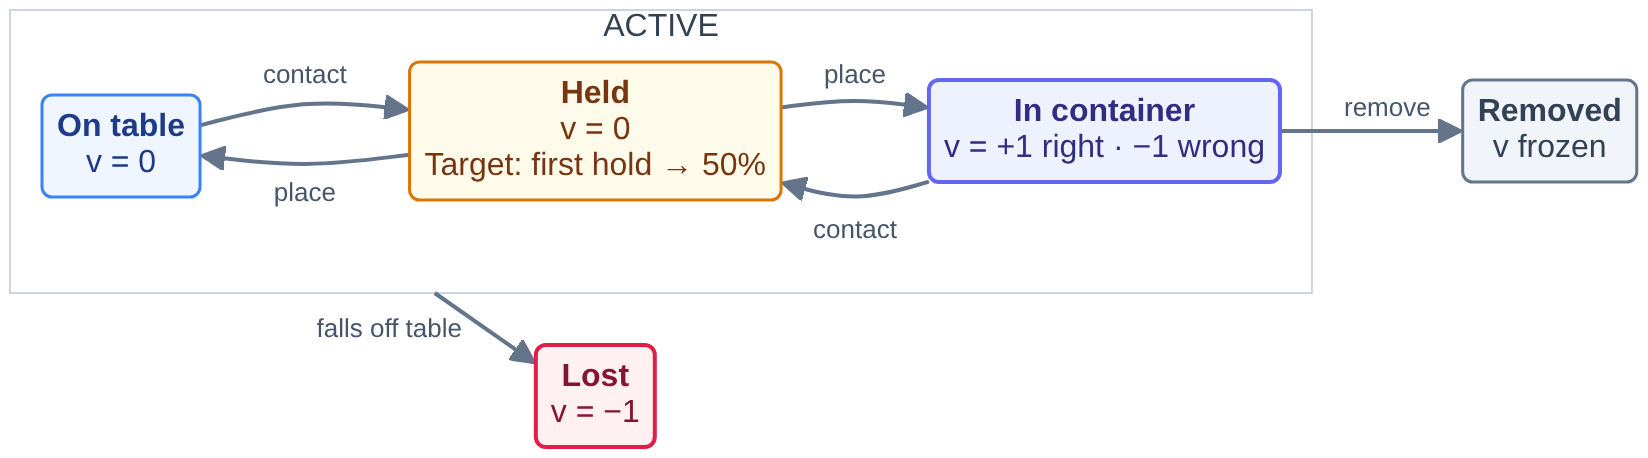
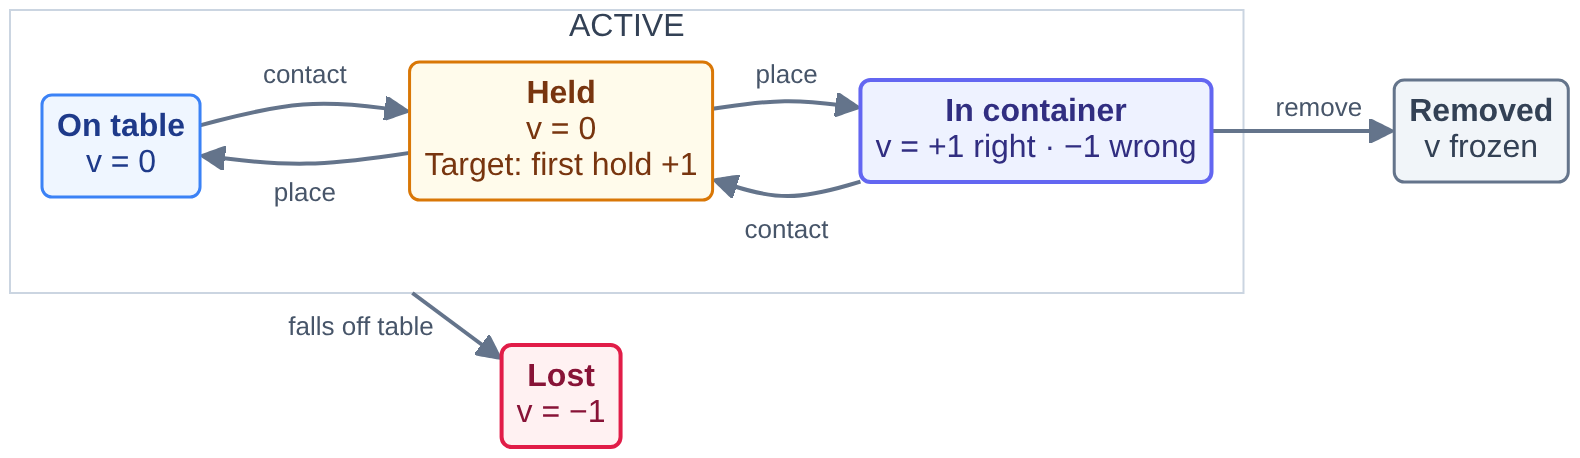
score: express request milestones as one point each

diff --git a/tasks/arm/object_finding_and_organizing_on_messy_desk/setup/payload/messy_desk_score.py b/tasks/arm/object_finding_and_organizing_on_messy_desk/setup/payload/messy_desk_score.py
@@ -10,9 +10,9 @@ available, sum_t sum_o max(0, 1 - b_o), then clipped to [0, 1]. An untouched sce
 exactly 0. Removed objects keep their last value (container service, delivery) or -1 (lost
 off the table) for the rest of the episode, also when their instance is reused.
 
-R, request progress: mean credit over all opened requests, including an ongoing one.
-The first hold of the requested target earns 0.5 once; a verified delivery or correct
-absence declaration brings that request to 1.0. Repeated holds earn nothing more.
+R, request progress: points divided by twice the number of opened requests, including an ongoing one.
+The first hold of the requested target earns 1 point once; a verified delivery or correct
+absence declaration brings that request to 2 points. Repeated holds earn nothing more.
 A wrong mark or expiry keeps any first-hold credit but adds none. No requests gives 0.
 
 Stdlib-only; shared byte-identically by the verify stage and the practice grader.
@@ -31,7 +31,7 @@ class EpisodeScorer(object):
         self.den = 0.0            # sum of the gain available, max(0, 1 - b)
         self.ghosts = []          # (value, baseline) of removed incarnations whose instance was reused
         self.prev = {}            # id -> (present, removed, value, baseline) at the previous step
-        self.request_credits = {}  # request id -> 0, 0.5 (first hold), or 1 (success)
+        self.request_points = {}  # request id -> 0, 1 (first hold), or 2 (success)
         self.held_requests = set()
         self.counts = {"requests_opened": 0, "requests_success": 0, "requests_failed": 0,
                        "requests_delivered": 0, "absent_correct": 0, "claims_wrong": 0, "absent_wrong": 0,
@@ -55,14 +55,14 @@ class EpisodeScorer(object):
             kind = e.get("event", "")
             if kind == "request_opened" or kind == "request_first_hold" or kind in SUCCESS_EVENTS or kind in FAILURE_EVENTS:
                 rid = e["request"]
-                self.request_credits.setdefault(rid, 0.0)
+                self.request_points.setdefault(rid, 0.0)
                 if kind == "request_first_hold":
-                    self.request_credits[rid] = max(self.request_credits[rid], 0.5)
+                    self.request_points[rid] = max(self.request_points[rid], 1.0)
                     if rid not in self.held_requests:
                         self.held_requests.add(rid)
                         self.counts["first_holds"] += 1
                 elif kind in SUCCESS_EVENTS:
-                    self.request_credits[rid] = 1.0
+                    self.request_points[rid] = 2.0
             if kind in SUCCESS_EVENTS:
                 self.counts["requests_success"] += 1
             elif kind in FAILURE_EVENTS:
@@ -99,8 +99,8 @@ class EpisodeScorer(object):
         return self.counts["requests_success"] / float(closed) if closed else 0.0
 
     def request_progress(self):
-        opened = len(self.request_credits)
-        return sum(self.request_credits.values()) / float(opened) if opened else 0.0
+        opened = len(self.request_points)
+        return sum(self.request_points.values()) / (2.0 * opened) if opened else 0.0
 
     def score(self):
         s = W_ORG * self.organization() + W_REQ * self.request_progress()

diff --git a/tasks/arm/object_finding_and_organizing_on_messy_desk/verify/messy_desk_score.py b/tasks/arm/object_finding_and_organizing_on_messy_desk/verify/messy_desk_score.py
@@ -10,9 +10,9 @@ available, sum_t sum_o max(0, 1 - b_o), then clipped to [0, 1]. An untouched sce
 exactly 0. Removed objects keep their last value (container service, delivery) or -1 (lost
 off the table) for the rest of the episode, also when their instance is reused.
 
-R, request progress: mean credit over all opened requests, including an ongoing one.
-The first hold of the requested target earns 0.5 once; a verified delivery or correct
-absence declaration brings that request to 1.0. Repeated holds earn nothing more.
+R, request progress: points divided by twice the number of opened requests, including an ongoing one.
+The first hold of the requested target earns 1 point once; a verified delivery or correct
+absence declaration brings that request to 2 points. Repeated holds earn nothing more.
 A wrong mark or expiry keeps any first-hold credit but adds none. No requests gives 0.
 
 Stdlib-only; shared byte-identically by the verify stage and the practice grader.
@@ -31,7 +31,7 @@ class EpisodeScorer(object):
         self.den = 0.0            # sum of the gain available, max(0, 1 - b)
         self.ghosts = []          # (value, baseline) of removed incarnations whose instance was reused
         self.prev = {}            # id -> (present, removed, value, baseline) at the previous step
-        self.request_credits = {}  # request id -> 0, 0.5 (first hold), or 1 (success)
+        self.request_points = {}  # request id -> 0, 1 (first hold), or 2 (success)
         self.held_requests = set()
         self.counts = {"requests_opened": 0, "requests_success": 0, "requests_failed": 0,
                        "requests_delivered": 0, "absent_correct": 0, "claims_wrong": 0, "absent_wrong": 0,
@@ -55,14 +55,14 @@ class EpisodeScorer(object):
             kind = e.get("event", "")
             if kind == "request_opened" or kind == "request_first_hold" or kind in SUCCESS_EVENTS or kind in FAILURE_EVENTS:
                 rid = e["request"]
-                self.request_credits.setdefault(rid, 0.0)
+                self.request_points.setdefault(rid, 0.0)
                 if kind == "request_first_hold":
-                    self.request_credits[rid] = max(self.request_credits[rid], 0.5)
+                    self.request_points[rid] = max(self.request_points[rid], 1.0)
                     if rid not in self.held_requests:
                         self.held_requests.add(rid)
                         self.counts["first_holds"] += 1
                 elif kind in SUCCESS_EVENTS:
-                    self.request_credits[rid] = 1.0
+                    self.request_points[rid] = 2.0
             if kind in SUCCESS_EVENTS:
                 self.counts["requests_success"] += 1
             elif kind in FAILURE_EVENTS:
@@ -99,8 +99,8 @@ class EpisodeScorer(object):
         return self.counts["requests_success"] / float(closed) if closed else 0.0
 
     def request_progress(self):
-        opened = len(self.request_credits)
-        return sum(self.request_credits.values()) / float(opened) if opened else 0.0
+        opened = len(self.request_points)
+        return sum(self.request_points.values()) / (2.0 * opened) if opened else 0.0
 
     def score(self):
         s = W_ORG * self.organization() + W_REQ * self.request_progress()

diff --git a/tests/test_messy_desk_request_credit.py b/tests/test_messy_desk_request_credit.py
@@ -32,7 +32,8 @@ class RequestCreditTests(unittest.TestCase):
         self.assertEqual(self.scorer.score(), 0)
         self.event("request_first_hold")
         self.assertEqual(self.scorer.request_progress(), 0.5)
-        self.assertEqual(self.scorer.score(), 0.25)  # R has half the episode weight.
+        self.assertEqual(self.scorer.request_points[0], 1)
+        self.assertEqual(self.scorer.score(), 0.25)  # One of two request points; R has half the weight.
         for _ in range(10):
             self.event("request_first_hold")
         self.assertEqual(self.scorer.request_progress(), 0.5)
@@ -40,6 +41,7 @@ class RequestCreditTests(unittest.TestCase):
         self.event("request_delivered")
         self.assertEqual(self.scorer.request_progress(), 1)
         self.assertEqual(self.scorer.score(), 0.5)
+        self.assertEqual(self.scorer.request_points[0], 2)
         self.event("request_first_hold")
         self.assertEqual(self.scorer.request_progress(), 1)
 

diff --git a/tasks/arm/object_finding_and_organizing_on_messy_desk/verify/README.md b/tasks/arm/object_finding_and_organizing_on_messy_desk/verify/README.md
@@ -36,7 +36,7 @@ Key object states; node values are $v_o(t)$. First-hold credit belongs to $R$, n
 
 <!-- Editable source: figures/object-automaton.mmd -->
 
-The first hold of the requested target earns 50% request credit once; repeated holds add nothing. “Place” means released and resting. A right container is the class container, or red for the requested object. Removal by container service or confirmed delivery freezes the value; only falling off the table triggers `Lost` and keeps −1. A release onto the table or into a container is not a loss. Transit ($v=0$), arrivals, disturbances and instance reuse are omitted for clarity.
+The first hold of the requested target earns +1 request point once; repeated holds add nothing. “Place” means released and resting. A right container is the class container, or red for the requested object. Removal by container service or confirmed delivery freezes the value; only falling off the table triggers `Lost` and keeps −1. A release onto the table or into a container is not a loss. Transit ($v=0$), arrivals, disturbances and instance reuse are omitted for clarity.
 
 ## Request automaton
 
@@ -48,17 +48,17 @@ Each request earns partial credit on its first target hold, then closes as a suc
 
 <!-- Editable source: figures/request-automaton.mmd -->
 
-A first target hold earns 50% credit; verified delivery or correct absence earns 100%. Failure or expiry keeps any first-hold credit but adds no completion credit. $R$ averages credit over all opened requests, including the ongoing one. The next request starts a new cycle.
+A first target hold earns +1 point; delivery adds +1 for a total of 2. Correct absence also earns 2 points. Failure or expiry keeps any first-hold credit but adds no completion credit. $R$ divides total request points by twice the number of opened requests, including the ongoing one. The next request starts a new cycle.
 
 ## Score
 
 $$
 S = \frac{1}{2}\, O + \frac{1}{2}\, R, \qquad
 O = \mathrm{clip}\left( \frac{\sum_{t=1}^{T} \sum_{o} \left( v_o(t) - b_o \right)}{\sum_{t=1}^{T} \sum_{o} \max\left( 0,\, 1 - b_o \right)},\ 0,\ 1 \right), \qquad
-R = \frac{\sum_{j=1}^{N_{\mathrm{opened}}} q_j}{N_{\mathrm{opened}}}
+R = \frac{\sum_{j=1}^{N_{\mathrm{opened}}} q_j}{2N_{\mathrm{opened}}}
 $$
 
-where $q_j = 1$ for a verified delivery or correct absence declaration, $q_j = 1/2$
+where $q_j = 2$ for a verified delivery or correct absence declaration, $q_j = 1$
 for a request whose target was held at least once but has not been successfully completed,
 and $q_j = 0$ otherwise. Repeated holds do not accumulate credit. $R = 0$ when no request
 has opened. A first hold is recorded only while the request is open and its target is
@@ -70,13 +70,13 @@ When the episode was cut after $T < H$ steps, $S \leftarrow S \cdot T / H$.
 |---|---|
 | $S$ | the episode score in $[0, 1]$; the task metric `mean_episode_score` is its mean over the hidden seeds |
 | $O$ | organization: how much of the sorting work that was available over the episode was done, every step counted (anytime) |
-| $R$ | request progress: mean credit across all opened requests, including an ongoing one |
+| $R$ | request progress: total points divided by twice the number of opened requests, including an ongoing one |
 | $v_o(t)$ | value of object $o$ at step $t$: +1 placed in a right container, −1 placed in a wrong one, 0 on the table / held / in flight, −1 for ever once lost, last value once removed |
 | $b_o$ | baseline of object $o$: its value when it entered the scene (0 for an arrival, +1 for an object that starts in its pile) or when the world last moved it (−1 after a misplacement; re-read once a nudged object rests again) |
 | $v_o(t) - b_o$ | the agent's net effect on object $o$: untouched objects contribute 0 |
 | $\max(0, 1 - b_o)$ | the gain that was available for $o$: 1 per step for a loose object, 2 for one the world misfiled, 0 for one already in place |
 | $T$, $H$ | steps actually run and the horizon (20000); an episode the grader cuts for exhausting its wall-clock budget keeps what it earned, scaled by $T/H$ |
-| $q_j$, $N_{\mathrm{opened}}$ | credit for request $j$ (0, 0.5, or 1), and the number of requests opened; $R = 0$ when none opened |
+| $q_j$, $N_{\mathrm{opened}}$ | points for request $j$ (0, 1, or 2), and the number of requests opened; $R = 0$ when none opened |
 
 Properties: an untouched scene scores exactly 0 (every $v_o = b_o$, no successful request);
 holding an object inside a container is not "placed", so it earns no organization credit;

diff --git a/tasks/arm/object_finding_and_organizing_on_messy_desk/instruction.md b/tasks/arm/object_finding_and_organizing_on_messy_desk/instruction.md
@@ -133,9 +133,9 @@ Requests end as a **success** (`done: delivered` while the requested object is p
 container; `done: no such object` when it really is absent) or a **failure** (either mark when
 the truth is the opposite, or the deadline passes unmarked).
 
-Each request earns credit in two stages: the first time its target is in `held` state earns
-0.5, once per request; a verified delivery raises its credit to 1.0. Correctly declaring
-absence also earns 1.0. Repeated holds add nothing. A failed or expired request keeps
+Each request earns points in two stages: the first time its target is in `held` state earns
+1 point, once per request; verified delivery adds the second point for a total of 2.
+Correctly declaring absence also earns 2 points. Repeated holds add nothing. A failed or expired request keeps
 any first-hold credit already earned, but gains no completion credit. Merely having
 touched the object before the request opened does not count.
 
@@ -144,7 +144,7 @@ The episode score is
 ```
 S = 1/2 · O + 1/2 · R
 O = clip( Σ_t Σ_o (v_o(t) − b_o)  /  Σ_t Σ_o max(0, 1 − b_o) , 0, 1 )
-R = sum of request credits / opened requests     (0 when no request opened)
+R = sum of request points / (2 · opened requests)   (0 when no request opened)
 ```
 
 `R` includes the ongoing request, so its first hold earns partial credit immediately.

diff --git a/PROGRESS.md b/PROGRESS.md
@@ -282,10 +282,10 @@ and `verify/` included.
 
 ## 8. 2026-10-23 — first-target-hold request credit
 
-- Request progress now awards 0.5 for the first current target hold per request, topped
-  up to 1.0 by verified delivery; a correct absence declaration also earns 1.0. Repeated
+- Request points award +1 for the first current target hold per request, topped up
+  to 2 points by verified delivery; a correct absence declaration also earns 2 points. Repeated
   holds add nothing, and failure/expiry preserves only the first-hold credit already earned.
-- R averages these credits over all opened requests, including an ongoing request, so
+- R divides total points by twice the number of opened requests, including an ongoing one, so
   partial credit is immediate. The separate request success-rate diagnostic remains available.
 - Updated the environment event, hidden/practice scorer copies, instructions, formula and
   diagrams. Historical contact is insufficient; the target must currently be in held state.
